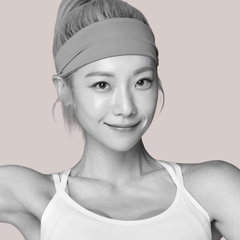
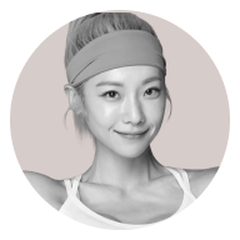
타임테이블: 심으뜸 프로필 사진을 피그마 조정본으로
Claude-Session: https://claude.ai/code/session_01R7psaqm8m7GEAGGww3SgQz

diff --git a/index.html b/index.html
@@ -901,7 +901,7 @@ try{ if('scrollRestoration' in history) history.scrollRestoration='manual'; }cat
   const av=n=>{ if(n==='SMCC') return `<span class="av logo"><img src="img/smcc.png" alt="SMCC"></span>`;
     if(n==='스페셜 게스트') return `<span class="av guest" aria-hidden="true"><svg width="20" height="20" viewBox="0 0 24 24"><path d="M12 1.5C12.7 7.4 16.6 11.3 22.5 12C16.6 12.7 12.7 16.6 12 22.5C11.3 16.6 7.4 12.7 1.5 12C7.4 11.3 11.3 7.4 12 1.5Z" fill="#7A5450"/></svg></span>`;
     const f=PHOTO[n]; if(!f) return `<span class="av" aria-hidden="true">${n.slice(0,1)}</span>`;
-    return `<span class="av photo"><img src="img/${f}.png?v=5" alt="" loading="lazy"></span>`; };
+    return `<span class="av photo"><img src="img/${f}.png?v=6" alt="" loading="lazy"></span>`; };
   const dur=t=>{const m=t.match(/(\d+):(\d+)\D+(\d+):(\d+)/); if(!m) return ''; const d=(+m[3]*60+ +m[4])-(+m[1]*60+ +m[2]); return d>0?d+'분':'';};
   const ACT={open:()=>`<a class="s-book" href="${BOOK}" target="_blank" rel="noopener">예매하기 ↗</a>`,
     soon:()=>`<span class="c-state soon">오픈 예정</span>`,
